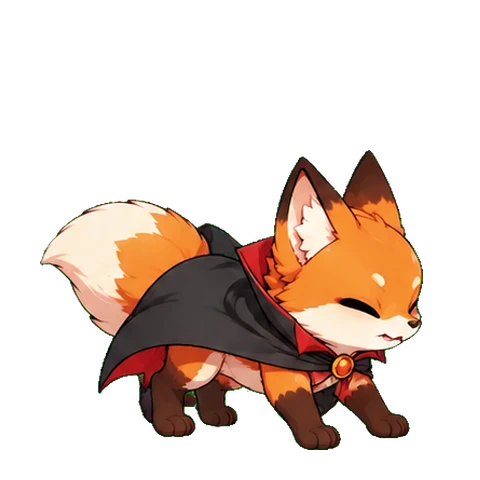
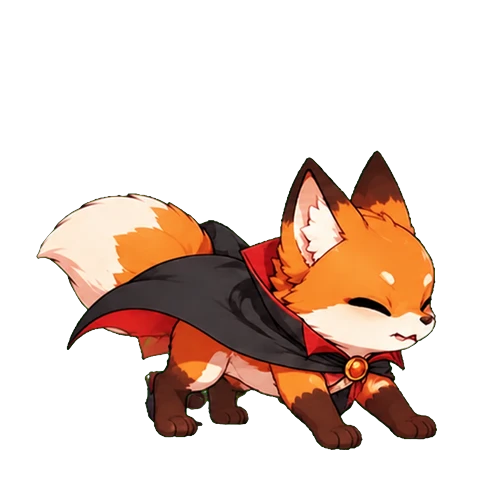
Fling: the caped fox's cape never still — crouched (V03, three frames), sliding and hopping low (leaning forward); no more stuck in the air flickering as it slows; Halloween clips from WAN wired up (tools/wan_cape.py)

Changed region(s): [[0.0625, 0.3125, 0.9062, 0.9375]]

diff --git a/fling.js b/fling.js
@@ -128,13 +128,16 @@
   // on the branch; stretched out diving), roll (tumbling off a friend), joy (flung high), ouch, cheer / happy (at the end)
   const CLIPS = { run: 'walk_r_loop_run', pounce: 'walk_r_to_pounce_r', roll: 'roll_loop', joy: 'jump_joy_loop',
     ouch: 'surprised_loop', cheer: 'cheer_loop', happy: 'happy_loop', up: 'back_crouch_to_back_air', down: 'back_air_to_back_crouch' };
-  const A = {};
-  for (const [k, clip] of Object.entries(CLIPS)) (async () => {
-    const r = await fetch(`assets/fox/clips/${clip}/meta.json`).catch(() => null);
+  // (on Halloween, in its cape: the same clips made again with it — tools/wan_cape.py, assets/fox/clips_halloween —
+  // frame for frame as the plain ones, where they're there)
+  const PLAIN = {}, CAPED_CLIPS = {}, CAPED_ONES = ['cheer', 'happy', 'up', 'down'];
+  for (const [k, clip] of Object.entries(CLIPS)) for (const [into, dir] of [[PLAIN, 'clips'], ...(CAPED_ONES.includes(k) ? [[CAPED_CLIPS, 'clips_halloween']] : [])]) (async () => {
+    const r = await fetch(`assets/fox/${dir}/${clip}/meta.json`).catch(() => null);
     if (!r?.ok) return;
     const m = await r.json();
-    A[k] = m.frames.map(f => { const im = new Image(); im.src = `assets/fox/clips/${clip}/${f}?v=${m.rev || 1}`; return im; });
+    into[k] = m.frames.map(f => { const im = new Image(); im.src = `assets/fox/${dir}/${clip}/${f}?v=${m.rev || 1}`; return im; });
   })();
+  const A = new Proxy(PLAIN, { get: (o, k) => (LOOK.night && CAPED_CLIPS[k]) || o[k] });
   const AIR = +params.get('air') || 10, DIVE = 7, CROUCH = [0, 4]; // (frames: run's stretched, pounce's dive, pounce's crouch)
   const frameOf = (k, t, fps = 16) => A[k]?.length ? A[k][Math.floor(t * fps) % A[k].length] : null;
 
@@ -648,7 +651,6 @@
       const u = (sky.t / SKY.hop) % 1;
       lift = Math.sin(Math.PI * u) * 0.45; im = hops[Math.floor(u * hops.length)];
     }
-    if (caped()) im = CAPED.back[Math.floor(sky.t * 12) % 3]; // (Halloween: in its cape, from behind, the cape flapping)
     const p = project(sky.x, z), size = H * 0.32 * p.s, rise = lift * LANE() * p.s;
     if (sky.pop < 1.4) smoke(project(0, -sky.z / ZV), sky.pop); // (a cartoon burst of smoke where it popped out)
     if (sky.leap > SPLASH) { // (and where it dives into the sea of cloud below)
@@ -809,16 +811,19 @@
     g.beginPath(); g.arc(-0.37 * s, 0.03 * s, 0.025 * s, 0, Math.PI * 2); g.fill(); // nostril
     g.restore();
   }
-  // on Halloween night the fox wears its vampire cape — GPT's V01, the fox drawn again with it: leaping (A, three
-  // frames of the cape streaming), diving (B, two), crouched on the tree (C), and from behind, bounding (D, three);
-  // each fitted over the frame it stands for (same size, same place in the 480px square). The rest (rolling,
-  // cheering...) stay its everyday clips.
-  const CAPED = { air: [], dive: [], crouch: [], back: [] };
-  for (const [k, n] of [['air', 3], ['dive', 2], ['crouch', 1], ['back', 3]]) for (let i = 0; i < n; i++) {
+  // on Halloween night the fox wears its vampire cape — side on, GPT's V01, the fox drawn again with it: leaping
+  // (A, three frames of the cape streaming), diving (B, two), crouched on the tree (C); each fitted over the frame it
+  // stands for (same size, same place in the 480px square). Bounding on the clouds and cheering at the end, its clips
+  // made again in the cape (A, above); rolling and the rest stay its everyday ones.
+  const CAPED = { air: [], dive: [], crouch: [] };
+  for (const [k, n] of [['air', 3], ['dive', 2], ['crouch', 3]]) for (let i = 0; i < n; i++) { // (crouch_1, _2: V03, the cape blowing)
     const im = new Image(); im.src = `assets/fox/halloween/${k}_${i}.webp`; CAPED[k][i] = im;
   }
-  const caped = () => LOOK.night && CAPED.back[2].complete && CAPED.back[2].naturalWidth;
-  const capedOf = (k, t) => CAPED[k][Math.floor(t) % CAPED[k].length];
+  const caped = () => LOOK.night && CAPED.crouch[0].complete && CAPED.crouch[0].naturalWidth;
+  const capedOf = (k, t) => { // (its frames in turn — never still, the cape always streaming; crouched with only the one, leaning forward)
+    const fr = CAPED[k].filter(im => im.complete && im.naturalWidth);
+    return fr.length > 1 ? fr[Math.floor(t) % fr.length] : k === 'crouch' ? capedOf('dive', t) : fr[0];
+  };
   function drawFox(f, s) {
     const p = toScreen(f.x, f.y), size = s * FOX_H * 1.25;
     const inAir = S.phase === 'fly' && f.y > 0.05;
@@ -831,9 +836,11 @@
     } else if (f.dive && A.pounce) { img = A.pounce[DIVE]; rot = -Math.atan2(f.vy, Math.max(4, f.vx)) * 0.7; }
     else if (inAir && f.ride <= 0) { img = A.run?.[AIR]; rot = -Math.atan2(f.vy, Math.max(4, f.vx)) * 0.6 + f.spin * Math.PI * 2; }
     else { img = A.run?.length ? (f.vx > 0.5 ? frameOf('run', S.t, 6 + f.vx) : A.run[0]) : null; }
-    if (caped() && !front && !(f.act?.name === 'roll')) { // (in the cape: crouched, diving, or leaping — on the ground too, bounding)
-      const flap = S.t * (8 + Math.hypot(f.vx, f.vy) * 0.4);
-      img = S.phase === 'aim' || S.phase === 'idle' || (S.phase !== 'fly' && f.vx <= 0.5) ? CAPED.crouch[0] : f.dive ? capedOf('dive', flap) : capedOf('air', flap);
+    if (caped() && !front && !(f.act?.name === 'roll')) { // (in the cape: diving, or leaping while well up; else crouched, its feet on the ground)
+      const v = Math.hypot(f.vx, f.vy), flap = S.t * (8 + v * 0.4), up = S.phase === 'fly' && f.y > 0.05 && v > 8; // (slowing down, hopping along: crouched, all the way — not a frame each hop)
+      const going = S.phase === 'fly' && v > 0.8; // (sliding or hopping along low: leaning forward, the cape streaming behind)
+      img = f.dive && up ? capedOf('dive', flap) : up && f.ride <= 0 ? capedOf('air', flap) : going ? capedOf('dive', flap) : capedOf('crouch', flap);
+      if (!up) rot = 0;
     }
     g.save(); g.translate(p.x, p.y - size * 0.45); g.rotate(rot);
     if (S.ready && S.phase === 'fly') { // a golden glow while a super bounce is waiting

diff --git a/index.html b/index.html
@@ -12,7 +12,7 @@
 <link rel="icon" href="icons/icon-192.png">
 <link rel="manifest" href="manifest.json">
 <link rel="stylesheet" href="style.css?v=2026.10.31-1">
-<link rel="stylesheet" href="fling.css?v=2026.10.31-16">
+<link rel="stylesheet" href="fling.css?v=2026.10.31-17">
 <title>iPet</title>
 </head>
 <body>
@@ -116,7 +116,7 @@
 <script src="i18n.js?v=2026.10.31-1"></script>
 <script src="voice.js?v=2026.10.31-1"></script>
 <script src="words.js?v=2026.10.31-1"></script>
-<script src="fling.js?v=2026.10.31-16"></script>
+<script src="fling.js?v=2026.10.31-17"></script>
 <script src="app.js?v=2026.10.31-1"></script>
   <script src="scene.js?v=2026.10.31-1"></script>
   <script src="ball.js?v=2026.10.31-1"></script>

diff --git a/sw.js b/sw.js
@@ -1,5 +1,5 @@
 // cache-first offline shell; bump VERSION when assets change
-const VERSION = 'ipet-2026.10.31-16';
+const VERSION = 'ipet-2026.10.31-17';
 const CORE = ['./', 'index.html', 'manifest.json'];
 
 self.addEventListener('install', e => {

diff --git a/tools/wan_cape.py b/tools/wan_cape.py
@@ -1,0 +1,62 @@
+"""The fox in its vampire cape (Halloween), with the local Wan 2.2 tool: the same clips as without it, made the
+same way — the same prompts (from each clip's meta.json, the cape added), the same length, seed and end picture
+— from GPT's caped pictures (V02, assets/fox/wan_in/halloween/<pose>.png, on the same canvas as the plain ones),
+and thinned to the very same frames as the plain clip where that was trimmed. So they play frame for frame.
+
+usage: python tools/wan_cape.py [clip …]     → assets/fox/clips_halloween/<clip>/   (no clips: all)
+"""
+import json
+import os
+import shutil
+import subprocess
+import sys
+
+IPET = os.path.dirname(os.path.dirname(os.path.abspath(__file__)))
+COMFY = os.path.join(os.path.expanduser('~'), 'Desktop', 'ComfyUI-master')
+IN = os.path.join(IPET, 'assets', 'fox', 'wan_in', 'halloween')
+PLAIN = os.path.join(IPET, 'assets', 'fox', 'clips')
+OUT = os.path.join(IPET, 'assets', 'fox', 'clips_halloween')
+CAPE = '牠穿著一件吸血鬼披風（外面黑色、內裡鮮紅色、高高的尖領子、胸口一顆橙色扣子），披風隨著動作自然飄動。'
+# clip: (start picture, end picture or None, Wan frames, the suffix Wan names it by)
+CLIPS = {
+    'cheer_loop': ('cheer', None, 25, '_loop'),
+    'happy_loop': ('happy', None, 25, '_loop'),
+    'back_crouch_to_back_air': ('back_crouch', 'back_air', 25, '_to_back_air'),
+    'back_air_to_back_crouch': ('back_air', 'back_crouch', 25, '_to_back_crouch'),
+}
+
+
+def make(clip):
+    start, end, length, suffix = CLIPS[clip]
+    plain = json.load(open(os.path.join(PLAIN, clip, 'meta.json'), encoding='utf-8'))
+    head, _, rest = plain['prompt'].partition('。')  # (after the fox's own description)
+    prompt = f'{head}。{CAPE}{rest}'
+    cmd = [os.path.join(COMFY, '.venv', 'Scripts', 'python.exe'), 'tivot_wan.py', '--mode', 'idle',
+           '--files', os.path.join(IN, f'{start}.png'), '--length', str(length), '--fps', '16',
+           '--seed', str(plain.get('seed', 7)), '--out', OUT, '--suffix', suffix, '--prompt', prompt]
+    if end:
+        cmd += ['--end', os.path.join(IN, f'{end}.png')]
+    print('===', clip, flush=True)
+    env = dict(os.environ, PYTHONIOENCODING='utf-8', PYTHONUTF8='1', TIVOT_GEN='512x512', TIVOT_FIT='1.0')
+    subprocess.run(cmd, cwd=os.path.join(COMFY, 'tivot_wan'), env=env, check=True)
+    keep = plain.get('trimmed', {}).get('kept')
+    if keep:  # the plain clip was thinned: the same frames of this one
+        d = os.path.join(OUT, clip)
+        meta = json.load(open(os.path.join(d, 'meta.json'), encoding='utf-8'))
+        full = os.path.join(IPET, 'assets', 'fox', 'wan_full_halloween', clip)
+        shutil.rmtree(full, ignore_errors=True); shutil.copytree(d, full)
+        for f in meta['frames']:
+            os.remove(os.path.join(d, f))
+        meta['frames'] = []
+        for i, k in enumerate(keep):
+            name = f'frame_{i:02d}.webp'
+            shutil.copy(os.path.join(full, f'frame_{k:02d}.webp'), os.path.join(d, name)); meta['frames'].append(name)
+        meta['trimmed'] = {'from': length, 'kept': keep}
+        meta['duration_ms'] = plain['duration_ms']
+        json.dump(meta, open(os.path.join(d, 'meta.json'), 'w', encoding='utf-8'), ensure_ascii=False, indent=1)
+    print('   ', len(json.load(open(os.path.join(OUT, clip, 'meta.json'), encoding='utf-8'))['frames']), 'frames', flush=True)
+
+
+if __name__ == '__main__':
+    for c in sys.argv[1:] or CLIPS:
+        make(c)

diff --git a/docs/gpt_friends.md b/docs/gpt_friends.md
@@ -33,4 +33,10 @@ F02 驗收通過。請交 F03，格式相同，給程式交替用的第二格：
 C01 只畫披風本身，疊在小狐身上不自然，所以改請 GPT 連小狐一起重畫：附上 `assets/source/V01_reference.png`（遊戲裡的四個姿勢 A 飛躍、B 下撲、C 蹲著、D 背面跳），
 3×3 綠底：1–3 是 A，披風飄動三幀；4–5 是 B，兩幀；6 是 C；7–9 是 D 背面，三幀。
 去背用 `greenkey.py --any-colour`。每格縮放成跟對應的遊戲幀一樣高，放在 480px 方格裡的同一個位置：A 對齊頭頂和右邊，B、C 對齊腳底和右邊，D 對齊腳底和頭的中心；同一組的幾幀再以頭的位置對齊。
-存成 air_0..2、dive_0..1、crouch_0、back_0..2（.webp）。翻滾、歡呼等其他動作還是用一般的動畫。
+存成 air_0..2、dive_0..1、crouch_0（.webp），用在側面的姿勢。
+
+會動的動畫（雲端蹦跳、結束時歡呼和開心）要跟沒有披風的版本同樣的幀數和動作，所以改成用 WAN 重做：
+- V02：附上 `assets/source/V02_reference.png`（cheer、happy、back_crouch、back_air 這四張 WAN 起始圖，2×2 排好），請 GPT 照同樣的格子、同樣的位置畫上披風。
+- 每格對齊原圖（耳尖和腳底同高、頭在同一個中心）後存到 `assets/fox/wan_in/halloween/`。
+- `python tools/wan_cape.py`：用原本 clip 的提示詞加上披風的描述，同樣的長度、seed 和結尾圖重跑 WAN，輸出到 `assets/fox/clips_halloween/`。原本有抽幀的 clip 會抽同樣的那幾幀。
+- 翻滾、被甩飛等其他動作還是一般的動畫。
